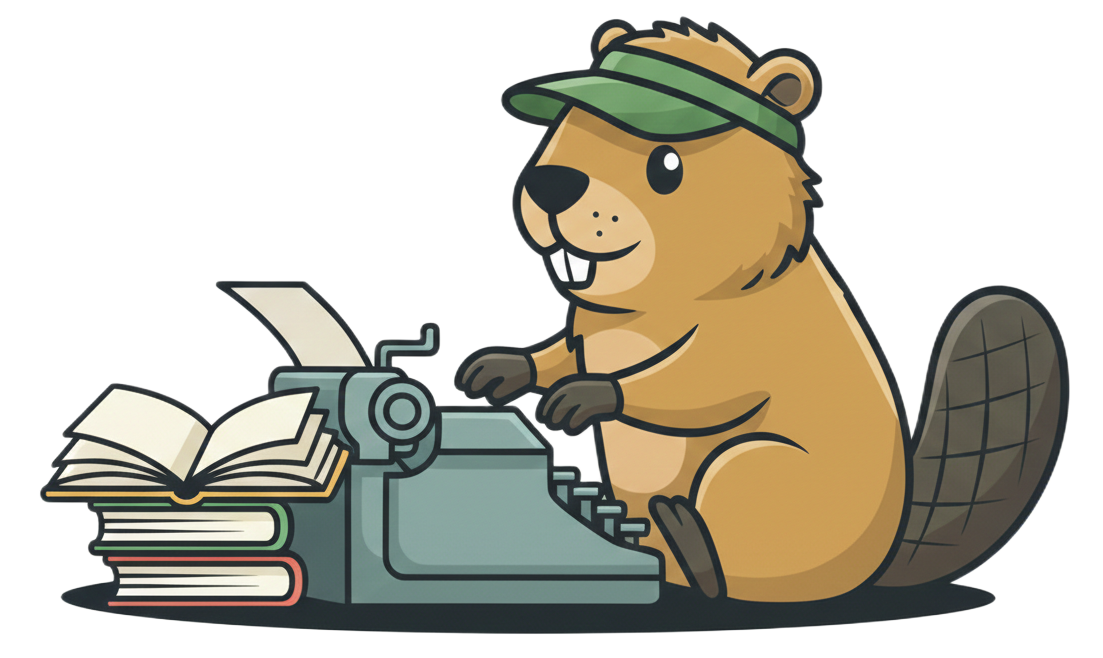
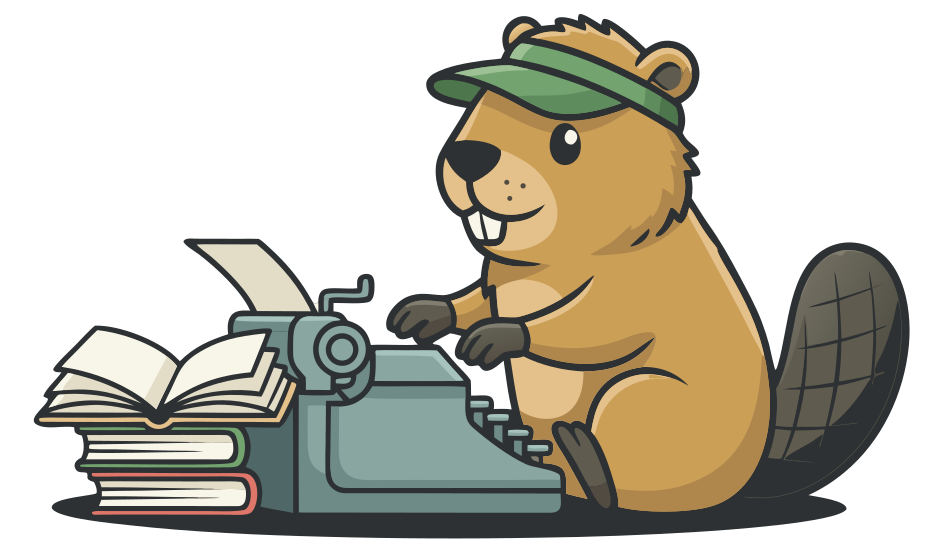
update doc

diff --git a/README.md b/README.md
@@ -7,7 +7,7 @@
 
 <p align="center">
     <picture>
-        <img alt="Grammared Language Featured Image" src="assets/typewriter _beaver.png" height="300" style="max-width: 100%;">
+        <img alt="Grammared Language Featured Image" src="assets/typewriter _beaver.png" height="500" style="max-width: 100%;">
     </picture>
 </p>
 <h3 align="center">
